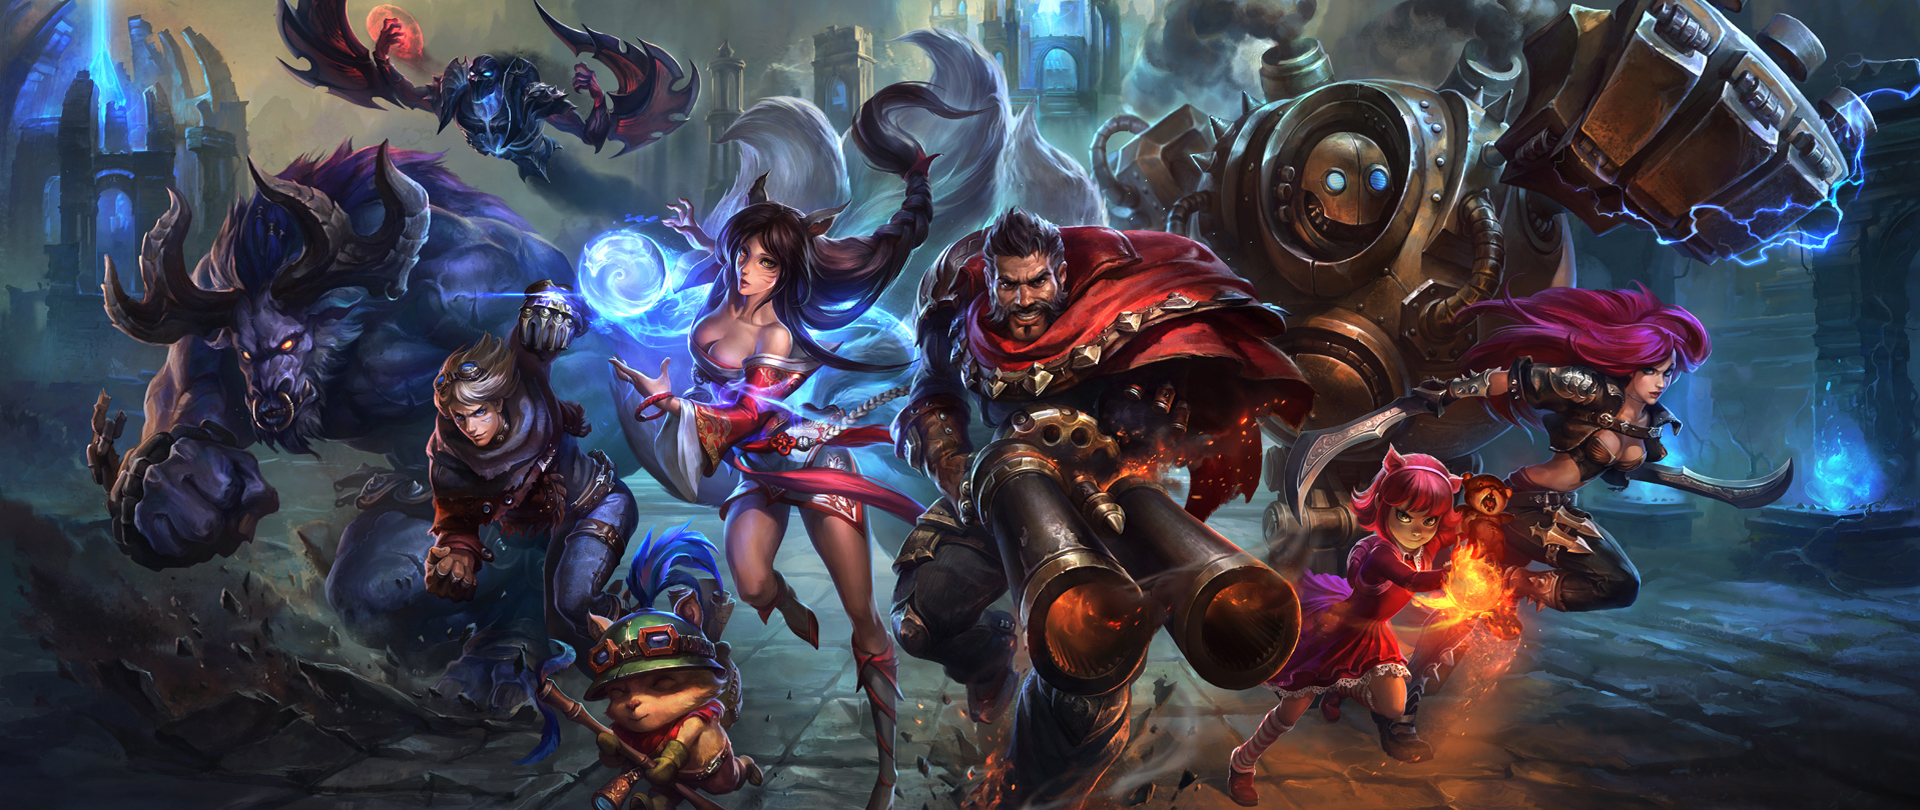
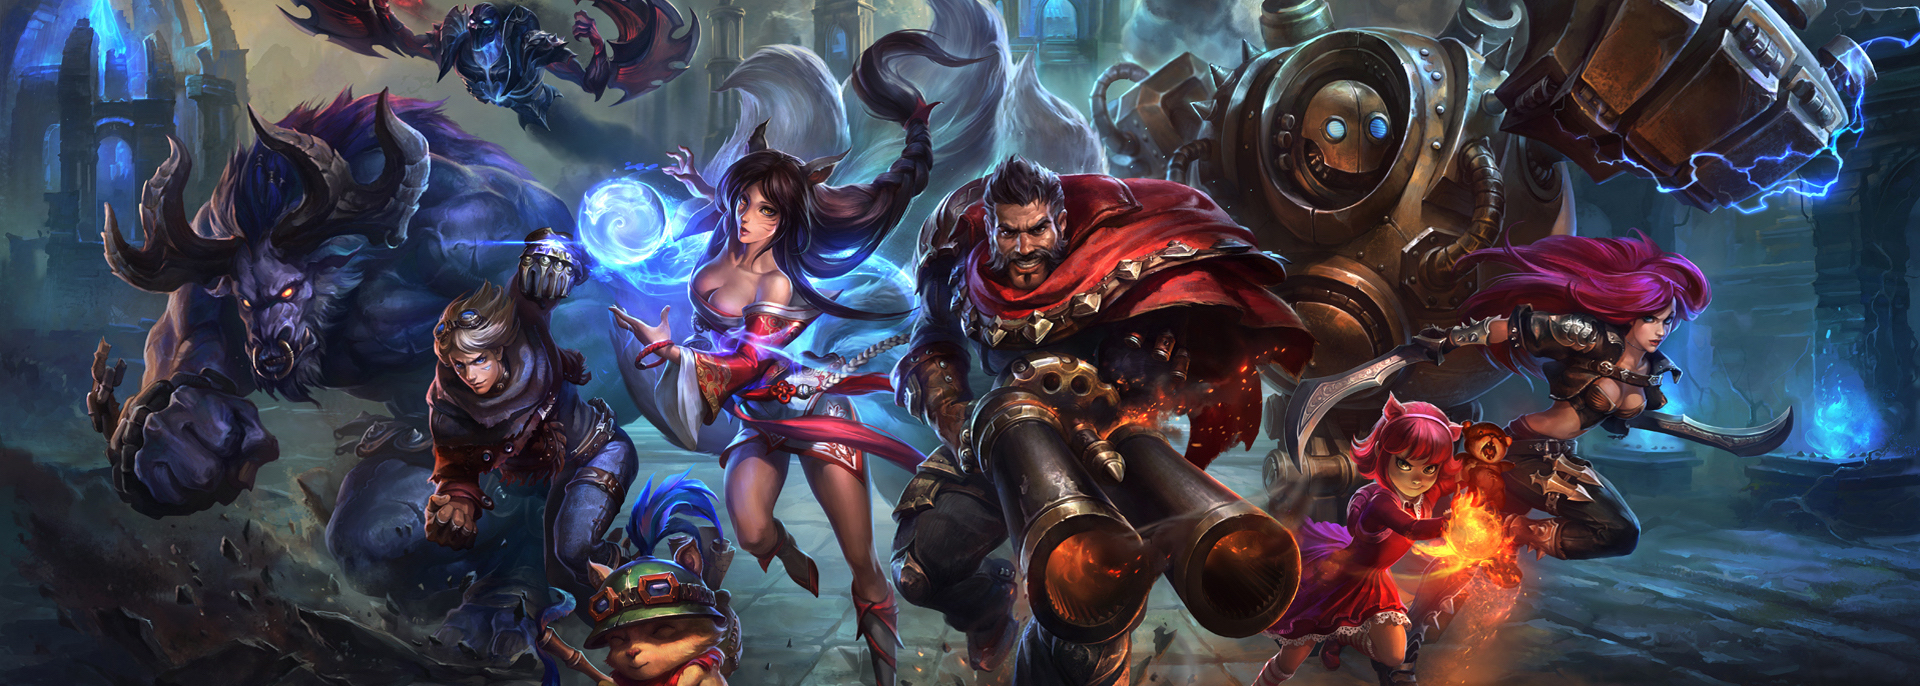
new header

diff --git a/themes/semantic-theme/layouts/partials/header.html b/themes/semantic-theme/layouts/partials/header.html
@@ -37,9 +37,10 @@
       <br>
     </div>
     <!---page grid---->
-    {{ end }} 
   </div>
   <img src = "/banner.jpg" style="width:100%;">
+  {{ end }} 
+  <br>
   <div class="ui container">
 
 

diff --git a/public/index.html b/public/index.html
@@ -102,9 +102,10 @@
       <br>
     </div>
     
-     
   </div>
   <img src = "/banner.jpg" style="width:100%;">
+   
+  <br>
   <div class="ui container">
 
 

diff --git a/public/404.html b/public/404.html
@@ -91,8 +91,7 @@
       <br>
     </div>
      
-  </div>
-  <img src = "/banner.jpg" style="width:100%;">
+  <br>
   <div class="ui container">
 
 

diff --git a/public/about/index.html b/public/about/index.html
@@ -91,8 +91,7 @@
       <br>
     </div>
      
-  </div>
-  <img src = "/banner.jpg" style="width:100%;">
+  <br>
   <div class="ui container">
 
 

diff --git a/public/categories/index.html b/public/categories/index.html
@@ -91,8 +91,7 @@
       <br>
     </div>
      
-  </div>
-  <img src = "/banner.jpg" style="width:100%;">
+  <br>
   <div class="ui container">
 
 

diff --git a/public/categories/r/index.html b/public/categories/r/index.html
@@ -91,8 +91,7 @@
       <br>
     </div>
      
-  </div>
-  <img src = "/banner.jpg" style="width:100%;">
+  <br>
   <div class="ui container">
 
 

diff --git a/public/categories/statistics/index.html b/public/categories/statistics/index.html
@@ -91,8 +91,7 @@
       <br>
     </div>
      
-  </div>
-  <img src = "/banner.jpg" style="width:100%;">
+  <br>
   <div class="ui container">
 
 

diff --git a/public/matches/index.html b/public/matches/index.html
@@ -91,8 +91,7 @@
       <br>
     </div>
      
-  </div>
-  <img src = "/banner.jpg" style="width:100%;">
+  <br>
   <div class="ui container">
 
 

diff --git a/public/post/2017/08/01/r-squared-simulations/index.html b/public/post/2017/08/01/r-squared-simulations/index.html
@@ -91,8 +91,7 @@
       <br>
     </div>
      
-  </div>
-  <img src = "/banner.jpg" style="width:100%;">
+  <br>
   <div class="ui container">
 
 

diff --git a/public/post/index.html b/public/post/index.html
@@ -91,8 +91,7 @@
       <br>
     </div>
      
-  </div>
-  <img src = "/banner.jpg" style="width:100%;">
+  <br>
   <div class="ui container">
 
 

diff --git a/public/semanticui/index.html b/public/semanticui/index.html
@@ -91,8 +91,7 @@
       <br>
     </div>
      
-  </div>
-  <img src = "/banner.jpg" style="width:100%;">
+  <br>
   <div class="ui container">
 
 

diff --git a/public/tags/index.html b/public/tags/index.html
@@ -91,8 +91,7 @@
       <br>
     </div>
      
-  </div>
-  <img src = "/banner.jpg" style="width:100%;">
+  <br>
   <div class="ui container">
 
 
